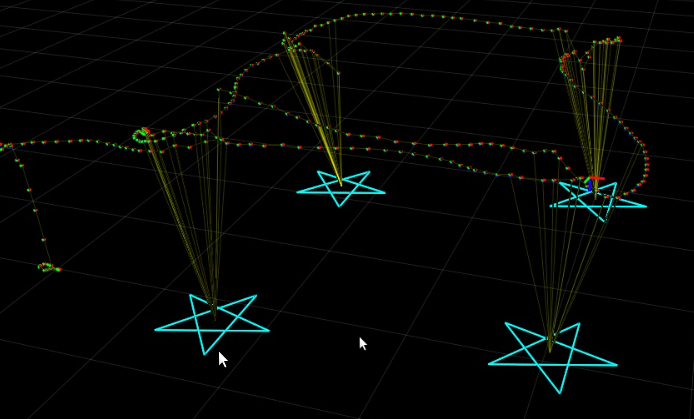
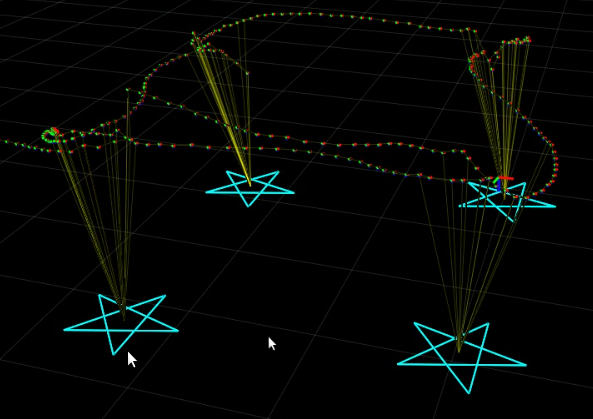
Added square-root sam paper.  Changed figure aspect ratio.  Changed some figure layouts

diff --git a/finalPaper/finalPaper.tex b/finalPaper/finalPaper.tex
@@ -227,6 +227,21 @@ side $b$ term.
 
 After the rotations have been performed, the system can be solved with simple back-substitution.
 
+\begin{figure*}[t]
+  \begin{center}
+    \subfigure[] {
+    \includegraphics[width=2.5in]{images/reorder32}
+    \label{fig:images/reorder32}}
+    \subfigure[] {
+    \includegraphics[width=2.5in]{images/reorder33}
+    \label{fig:images/reorder33}}
+    \caption{The factorization of the $A$ matrix after 300 time steps of simulated data
+      that includes loop closures. (a) Before variable reordering, the loop closures
+      introduce many non-zero elements. (b) After variable reordering, we have a much more
+    sparse factorization. Over 50\% of the non-zero elements were removed.}
+    \label{fig:reorder}
+  \end{center}
+\end{figure*}
 
 \subsection{Variable Reordering}
 \label{sub:variablereordering}
@@ -244,24 +259,6 @@ graph are kept together. This new order influences the variable elimination whic
 has a profound effect on the sparsity of the factorization. Figure
 \ref{fig:images/reorder33} shows the result of applying variable reordering to simulated
 data that has experienced several loop closures.
-
-
-\begin{figure}[!h]
-  \begin{center}
-    \subfigure[] {
-    \includegraphics[width=2.5in]{images/reorder32}
-    \label{fig:images/reorder32}}
-    \subfigure[] {
-    \includegraphics[width=2.5in]{images/reorder33}
-    \label{fig:images/reorder33}}
-    \caption{The factorization of the $A$ matrix after 300 time steps of simulated data
-      that includes loop closures. (a) Before variable reordering, the loop closures
-      introduce many non-zero elements. (b) After variable reordering, we have a much more
-    sparse factorization. Over 50\% of the non-zero elements were removed.}
-    \label{fig:reorder}
-  \end{center}
-\end{figure}
-
 
 The best column variable ordering is NP hard, and iSAM uses COLAMD as a heuristic to
 assist in the process. \cite{davis2004column} Our implementation uses a simplified
@@ -590,12 +587,12 @@ over its own wireless ad-hoc network and read into the front-end using LCM.
 
 \begin{figure*}[t]
   \begin{center}
+    \subfigure[Experimental test run with four landmarks] {
+      \includegraphics[width=2.1in]{images/setup}
+      \label{fig:testing}}
     \subfigure[Dead Reckoning] {
       \includegraphics[width=2.1in]{images/deadreckon}
       \label{fig:deadreckon}}
-    \subfigure[Before closing the primary loop] {
-      \includegraphics[width=2.1in]{images/initial}
-      \label{fig:initial}}
     \subfigure[After closing the primary loop] {
       \includegraphics[width=2.1in]{images/loopclosure}
       \label{fig:loopclosure}}
@@ -619,9 +616,6 @@ test runs can be seen in Figure \ref{fig:testing}.
 
 \begin{figure}[H]
 \centering
-\includegraphics[width=2.5in]{images/setup}
-\caption{Example test run with 4 landmarks.}
-\label{fig:testing}
 \end{figure}
 
 Our implementation was able to run and process data in realtime, providing a map that is
